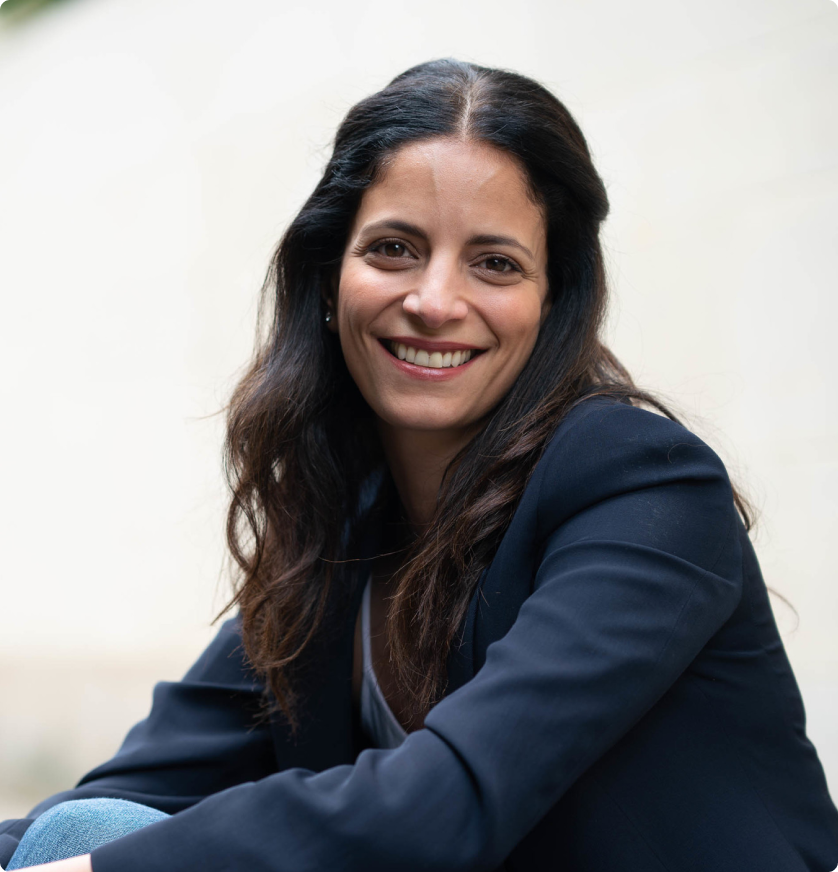
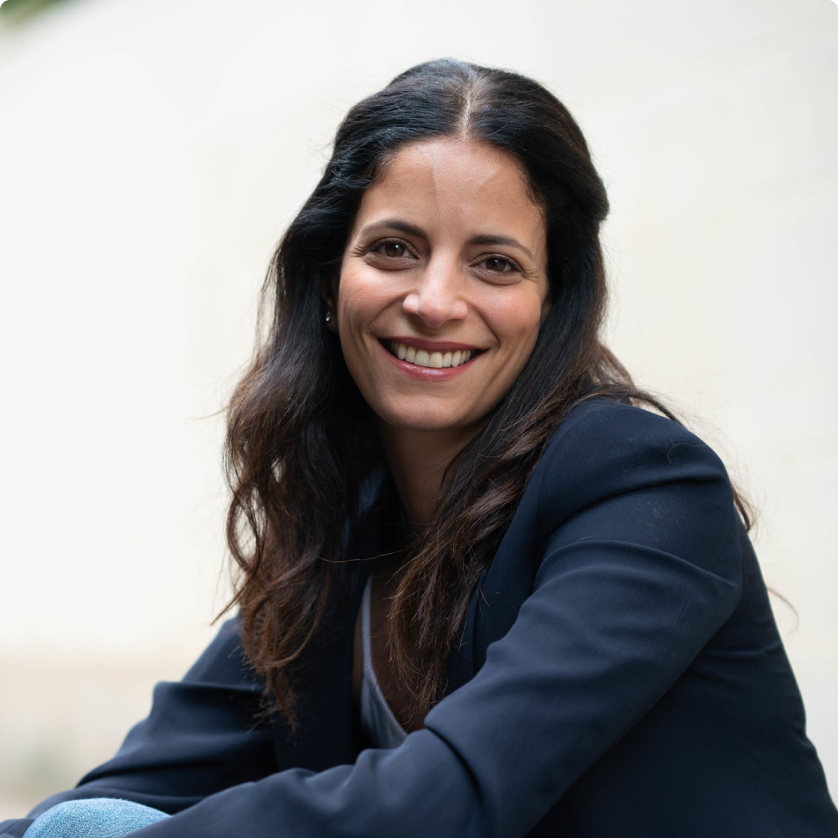
update david's profile picture

Changed region(s): [[0.0, 0.0621, 1.0, 1.0], [0.4033, 0.5585, 0.4654, 0.6205], [0.6516, 0.8998, 0.6826, 0.9308]]

diff --git a/cz_theme/frontpage.html b/cz_theme/frontpage.html
@@ -339,7 +339,8 @@
         <div class="figure-grid">
 
             <figure>
-                <img src="/static/images/people/sarah-g.png" alt="Sarah G photo">
+                <img src="/static/images/people/sarah-g.png" alt="Sarah G photo"
+                    style="max-width: 312px; border-radius: 4px;">
                 <figcaption>
                     <h3>Sarah G</h3>
                     <cite>Founder</cite>
@@ -347,7 +348,8 @@
             </figure>
 
             <figure>
-                <img src="/static/images/people/david-k.png" alt="David K photo">
+                <img src="/static/images/people/david-k.png" alt="David K photo"
+                    style="max-width: 312px; border-radius: 4px;">
                 <figcaption>
                     <h3>David K</h3>
                     <cite>CTO</cite>
@@ -355,7 +357,8 @@
             </figure>
 
             <figure>
-                <img src="/static/images/people/sarah-b.png" alt="Sarah B photo">
+                <img src="/static/images/people/sarah-b.png" alt="Sarah B photo"
+                    style="max-width: 312px; border-radius: 4px;">
                 <figcaption>
                     <h3>Sarah B</h3>
                     <cite>Brand and UX</cite>

diff --git a/cz_theme/about.html b/cz_theme/about.html
@@ -157,7 +157,7 @@
             <span class="icon material-icons">arrow_forward</span>
         </a>
         <div class="box person border-top b--jordan">
-            <img src="/static/images/people/sarah-g.png" alt="Sarah G">
+            <img src="/static/images/people/sarah-g.png" alt="Sarah G" style="max-width: 312px; border-radius: 4px;">
             <header>
                 <a class="btn med bg-navy colour-complement icon circle"
                     href="https://www.linkedin.com/in/sarahgammoh/">
@@ -264,7 +264,7 @@
             </ul>
         </div>
         <div class="box person border-top b--jordan">
-            <img src="/static/images/people/david-k.png" alt="David K">
+            <img src="/static/images/people/david-k.png" alt="David K" style="max-width: 312px; border-radius: 4px;">
             <header>
                 <a class="btn med bg-navy colour-complement icon circle" href="https://www.linkedin.com/in/david-kane/">
                     <img src="/static/images/social/linkedin-outline.svg" alt="View LinkedIn Profile">
@@ -320,7 +320,7 @@
             </ul>
         </div>
         <div class="box person border-top b--jordan">
-            <img src="/static/images/people/sarah-b.png" alt="Sarah B">
+            <img src="/static/images/people/sarah-b.png" alt="Sarah B" style="max-width: 312px; border-radius: 4px;">
             <header>
                 <a class="btn med bg-navy colour-complement icon circle"
                     href="https://www.linkedin.com/in/sarahbarradell/">